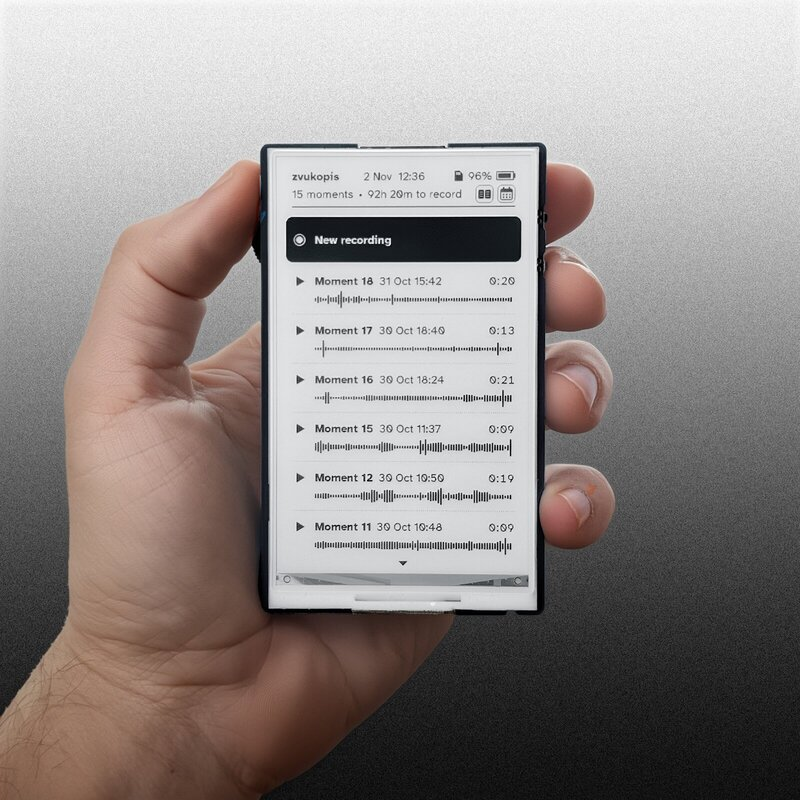
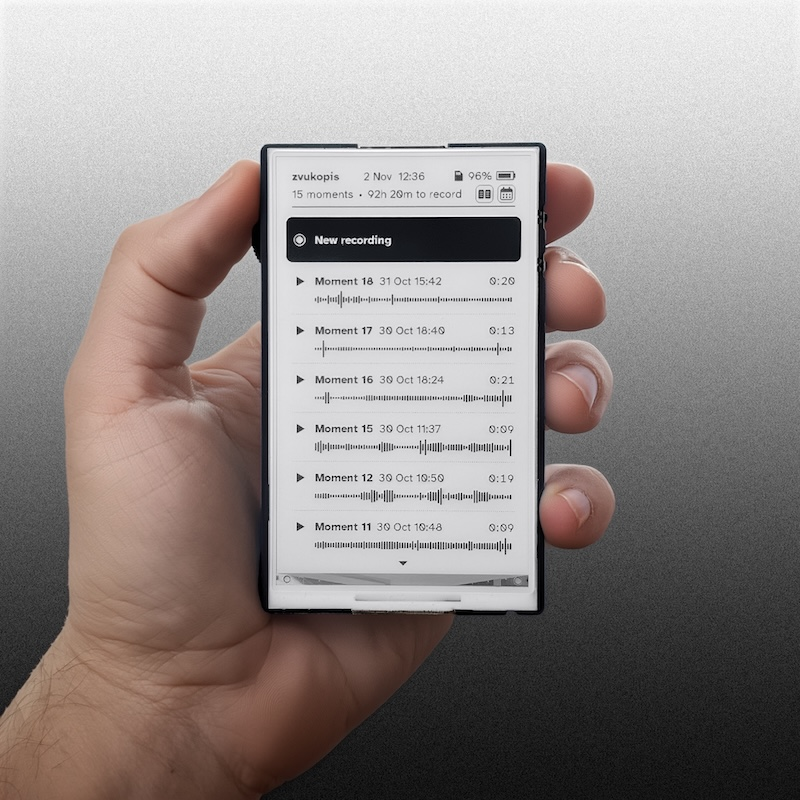
Project page: the photos, new versions (2000 and 800 px)

diff --git a/docs/index.html b/docs/index.html
@@ -30,7 +30,7 @@
 
 <main>
 <section class="band hero">
-  <div class="cell photo c5"><img src="zvukopis.jpg" srcset="zvukopis-800.jpg 800w, zvukopis.jpg 1600w" sizes="(min-width: 900px) 42vw, 100vw" width="1600" height="1600" alt="zvukopis in a hand: the e-paper screen lists moments with their waveforms, New recording at the top"></div>
+  <div class="cell photo c5"><img src="zvukopis.jpg" srcset="zvukopis-800.jpg 800w, zvukopis.jpg 2000w" sizes="(min-width: 900px) 42vw, 100vw" width="2000" height="2000" alt="zvukopis in a hand: the e-paper screen lists moments with their waveforms, New recording at the top"></div>
   <div class="cell c7 black">
     <p class="display">Simple mono pocket field recorder with e-ink screen</p>
     <p class="note">Firmware for the Waveshare <a href="https://www.waveshare.com/esp32-s3-epaper-3.97.htm">ESP32-S3-ePaper-3.97 board</a>. Open source, installed from this page in a minute.</p>
